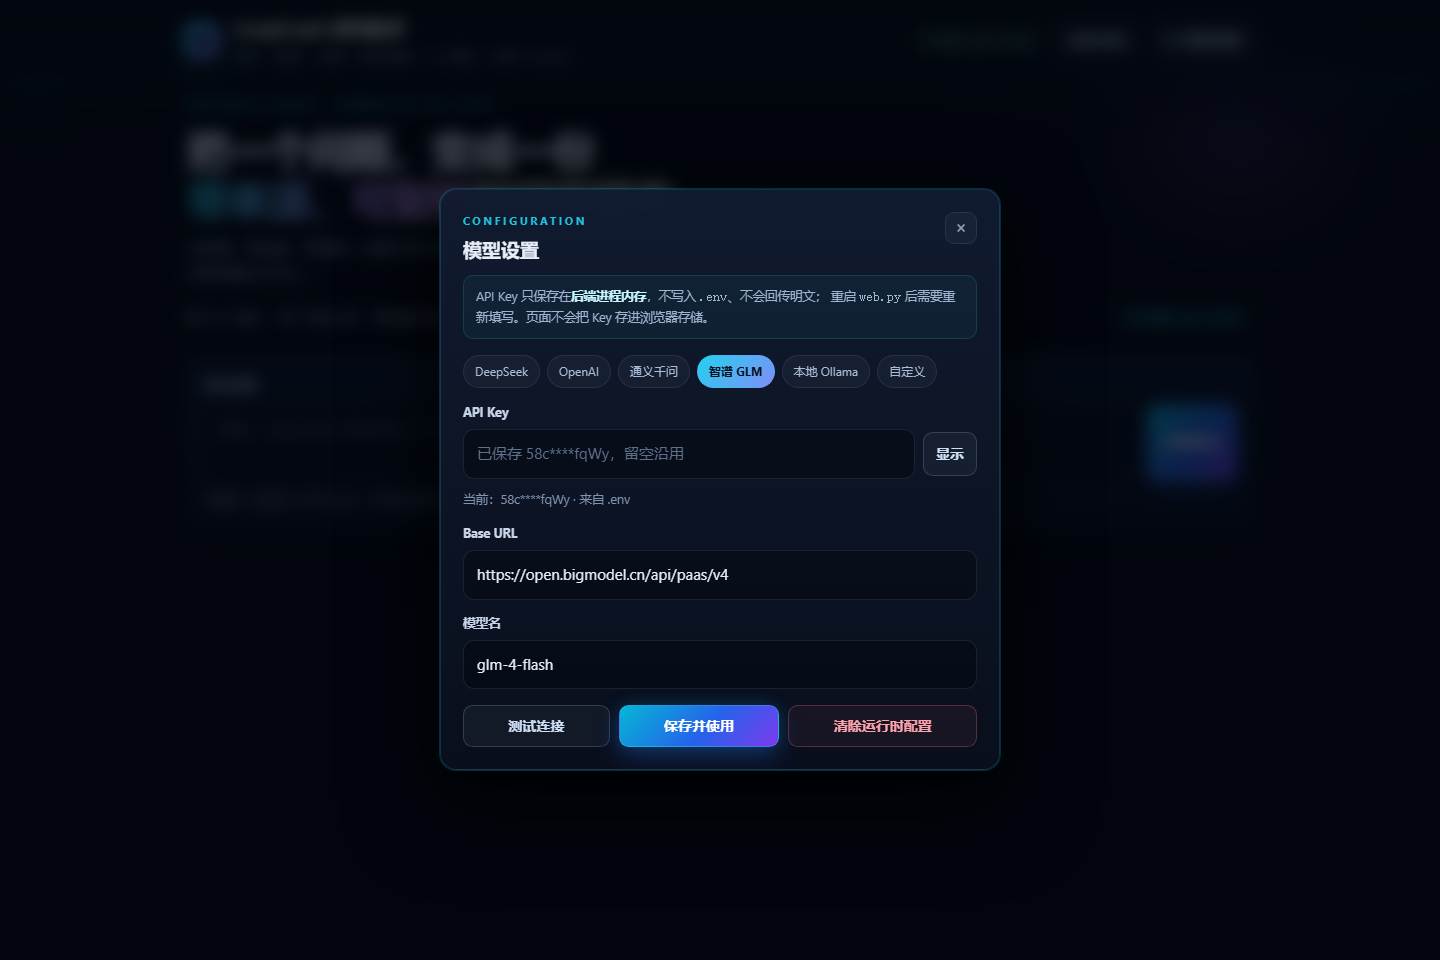
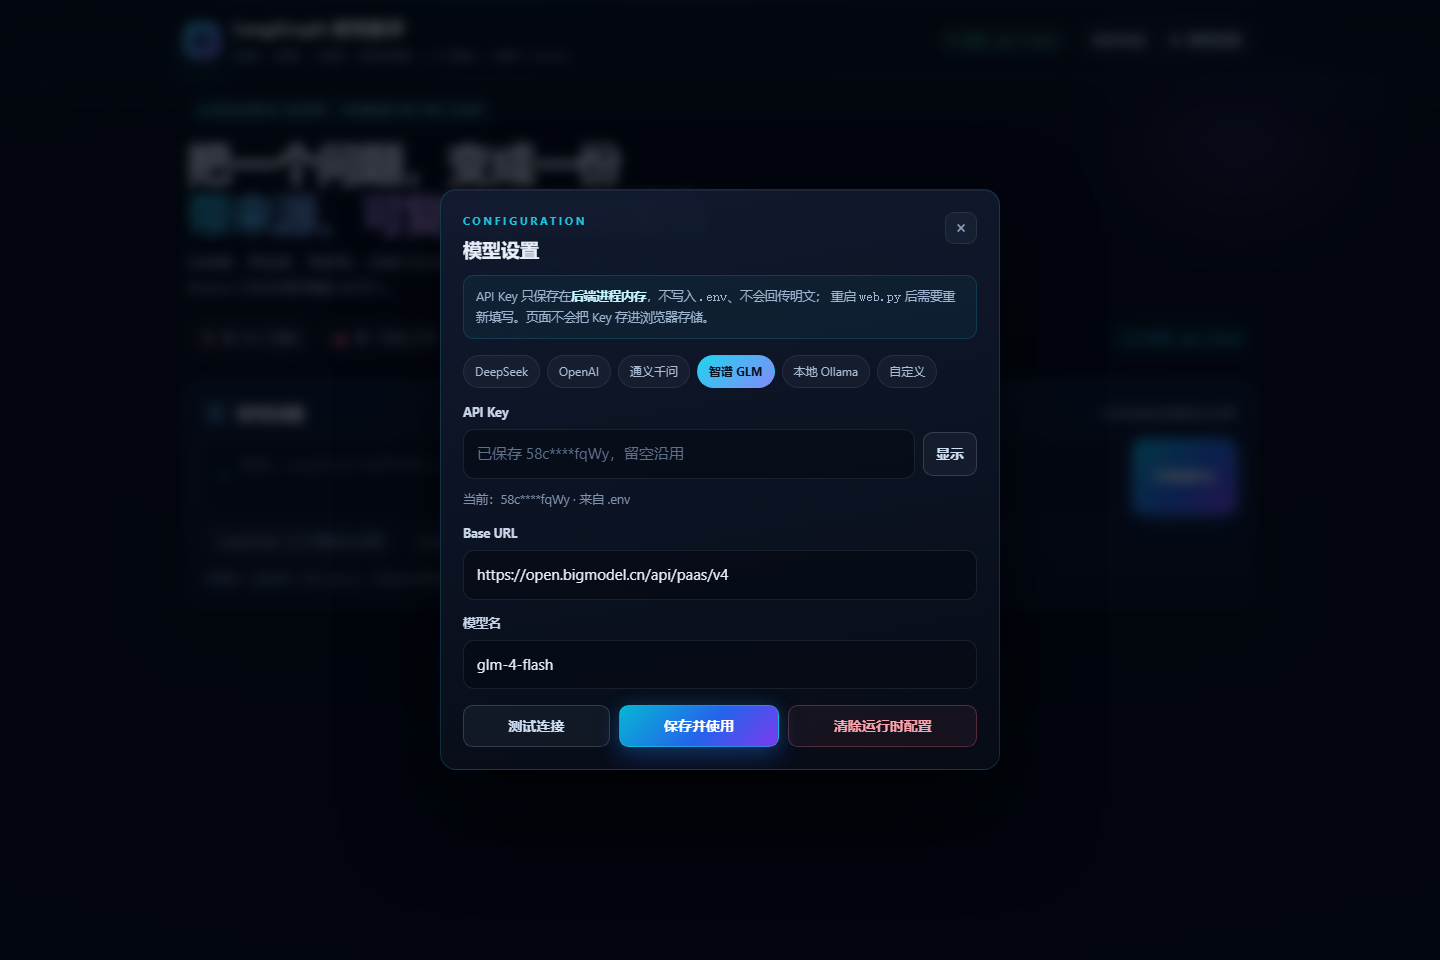
feat(ui): P2 美术升级（玻璃导航 / 玻璃输入台 / 卡片图标碟 / 暗角）
- 顶部：一道发丝光 + 玻璃导航胶囊，历史会话与模型设置收进 pill，hover 用内描边而不是整块变色
- Hero：eyebrow 改成玻璃标签胶囊（带呼吸圆点），标题 42 -> 45~54px 并收紧字距，数据条改成图标胶囊
- 研究问题：卡片头（图标碟 + 标题 + 右侧提示）+ 玻璃输入台（内联 SVG 放大镜、更大的聚焦光晕）+ 三个示例胶囊，点击即填入并聚焦
- 卡片统一：6 张卡加图标碟（历史/进度/未完成/最终/Trace/研究问题），标题 17px，hover 描边，阴影加深
- 进度：百分比改 34u 渐变大字，分段加高到 12px 并带发光；报告正文行高 1.85、标题节奏重排
- 背景：新增径向暗角把视线收到中间，阶梯光条再压一档，右上保留青紫辉光
- 修布局：卡片头原本是 space-between，手机隐藏右侧提示后标题被顶到最右；改成 flex-start + 末尾元素 margin-left:auto
- CDP 实测：示例胶囊点击后填入并聚焦、导航胶囊 backdrop-filter blur(14px)、历史入口正常打开 5 条会话、6 个图标、1440/1024/390 横向溢出均为 0
- 刷新 7 张 README 截图（主界面 / 模型设置 / 执行进度 / 折叠态 / Trace / 中断态 / 历史会话）

diff --git a/index.html b/index.html
@@ -627,7 +627,7 @@
     width: calc(var(--w) * var(--u));
     height: calc(var(--h) * var(--u));
     border-radius: 0 0 calc(24 * var(--u)) calc(24 * var(--u));
-    background: linear-gradient(180deg, rgba(34, 211, 238, .12), rgba(34, 211, 238, .03) 50%, rgba(34, 211, 238, 0) 82%);
+    background: linear-gradient(180deg, rgba(34, 211, 238, .10), rgba(34, 211, 238, .025) 50%, rgba(34, 211, 238, 0) 82%);
     filter: blur(calc(20 * var(--u)));
   }
   .bg .bars .l { left: calc(var(--l) * var(--u)); }
@@ -695,6 +695,24 @@
   .log-collapse-inner { overflow: hidden; min-height: 0; }
   #progress-card.collapsed .log-collapse-inner { opacity: 0; transition: opacity .18s ease; }
 
+  /* 报告正文：限制阅读宽度（约 46em ≈ 45 个汉字），居中成文档列；
+     行高、段距、标题节奏一起调，滚动容器放宽到 68vh 便于长报告阅读 */
+  .draft {
+    max-width: 46em;
+    margin-inline: auto;
+    max-height: min(68vh, 760px);
+    font-size: 15.5px;
+    line-height: 1.82;
+  }
+  .draft h2 { margin: calc(22 * var(--u)) 0 calc(10 * var(--u)); }
+  .draft h3 { margin: calc(20 * var(--u)) 0 calc(8 * var(--u)); }
+  .draft h4, .draft h5 { margin: calc(16 * var(--u)) 0 calc(6 * var(--u)); }
+  .draft p { margin: calc(10 * var(--u)) 0; }
+  .draft li { margin: calc(6 * var(--u)) 0; }
+  .draft ul, .draft ol { margin: calc(10 * var(--u)) 0; }
+  .draft blockquote { margin: calc(14 * var(--u)) 0; }
+  .draft .md-table { font-size: 13px; }
+
   /* 首屏入场：逐级落定（纯 CSS，减少动态效果时自动跳过） */
   @keyframes intro-rise {
     from { opacity: 0; transform: translateY(calc(14 * var(--u))); }
@@ -735,6 +753,210 @@
     .hero h2 { font-size: clamp(24px, 7.2vw, 32px); letter-spacing: -.03em; }
     .bg .bars span[data-n="4"] { display: none; }
   }
+
+  /* ============================================================
+     P2 美术层：玻璃导航 / 玻璃输入台 / 卡片图标碟 / 层次与强调
+     仍沿用青紫主色，只把「层次、玻璃、图标、比例」做出来
+     ============================================================ */
+  :root {
+    --r-card: calc(22 * var(--u));
+    --glass-1: rgba(148, 163, 184, .06);
+    --glass-2: rgba(148, 163, 184, .11);
+    --line-soft: rgba(148, 163, 184, .12);
+    --ink-2: #c7d5e8;
+    --shadow-card: 0 26px 64px rgba(0, 0, 0, .46), inset 0 1px 0 rgba(255, 255, 255, .035);
+  }
+
+  /* ---------- 背景暗角：四角压暗，中间更聚焦 ---------- */
+  .bg::after {
+    content: ""; position: absolute; inset: 0;
+    background: radial-gradient(130% 95% at 50% 26%, transparent 42%, rgba(3, 6, 12, .62) 100%);
+  }
+
+  /* ---------- 顶部：发丝光 + 玻璃导航胶囊 ---------- */
+  header.top::before {
+    content: ""; position: absolute; inset: 0 0 auto; height: 1px;
+    background: linear-gradient(90deg, transparent, rgba(34, 211, 238, .50), rgba(139, 92, 246, .45), transparent);
+  }
+  .nav-pill {
+    display: flex; align-items: center; gap: 2px;
+    padding: 3px; border-radius: 999px;
+    background: var(--glass-1);
+    border: 1px solid var(--line-soft);
+    backdrop-filter: blur(14px);
+    -webkit-backdrop-filter: blur(14px);
+  }
+  .nav-pill .btn.ghost {
+    border: 0; background: transparent; border-radius: 999px;
+    padding: calc(7 * var(--u)) calc(14 * var(--u));
+    color: var(--ink-2); font-size: 13px; box-shadow: none;
+  }
+  .nav-pill .btn.ghost:hover:not(:disabled) {
+    color: #ecfeff; background: var(--glass-2); transform: none;
+    box-shadow: inset 0 0 0 1px rgba(34, 211, 238, .18);
+  }
+  .brand .logo {
+    box-shadow: 0 10px 28px rgba(34, 211, 238, .24), inset 0 0 0 1px rgba(255, 255, 255, .18);
+  }
+
+  /* ---------- Hero：标签胶囊、更大标题、数据胶囊 ---------- */
+  .hero .eyebrow {
+    display: inline-flex; align-items: center; gap: calc(8 * var(--u));
+    padding: calc(6 * var(--u)) calc(14 * var(--u));
+    border-radius: 999px;
+    background: rgba(34, 211, 238, .07);
+    border: 1px solid rgba(34, 211, 238, .22);
+    color: #86e9f8; font-size: 10.5px; letter-spacing: .18em;
+  }
+  .hero .eyebrow::before {
+    content: ""; width: 6px; height: 6px; border-radius: 50%;
+    background: var(--accent);
+    box-shadow: 0 0 10px rgba(34, 211, 238, .9);
+  }
+  .hero h2 {
+    font-size: clamp(34px, calc(56 * var(--u)), 54px);
+    line-height: 1.13;
+    letter-spacing: -.045em;
+    margin-bottom: calc(14 * var(--u));
+  }
+  .hero-copy { font-size: 15px; color: #9fb2cc; max-width: 66ch; }
+  .hero-stats { gap: calc(9 * var(--u)); margin-top: calc(18 * var(--u)); }
+  .hero-stats > span:not(.hero-status) {
+    display: inline-flex; align-items: center; gap: 7px;
+    padding: calc(7 * var(--u)) calc(13 * var(--u));
+    border-radius: 999px;
+    background: var(--glass-1);
+    border: 1px solid var(--line-soft);
+    font-size: 12.5px; color: #9fb2cc;
+  }
+  .hero-stats > span:not(.hero-status) i { font-style: normal; font-size: 13px; }
+  .hero-stats > span:not(.hero-status) strong { font-size: 15px; color: #eaf2ff; }
+  .hero-status {
+    padding: calc(7 * var(--u)) calc(13 * var(--u));
+    border-radius: 999px; font-size: 12px;
+    border-color: rgba(34, 211, 238, .26);
+    background: rgba(34, 211, 238, .07);
+  }
+
+  /* ---------- 玻璃输入台 ---------- */
+  .ask-card { padding-bottom: calc(20 * var(--u)); }
+  .ask-field { position: relative; flex: 1 1 auto; min-width: 0; display: flex; }
+  .ask-field .ask-icon {
+    position: absolute; left: calc(15 * var(--u)); top: 50%; transform: translateY(-50%);
+    font-size: calc(18 * var(--u)); line-height: 1;
+    color: rgba(34, 211, 238, .7); pointer-events: none;
+  }
+  .ask-field textarea {
+    width: 100%;
+    min-height: calc(86 * var(--u));
+    padding: calc(15 * var(--u)) calc(16 * var(--u)) calc(15 * var(--u)) calc(44 * var(--u));
+    border-radius: calc(18 * var(--u));
+    background: rgba(3, 8, 16, .55);
+    border: 1px solid var(--line-soft);
+    font-size: 15px; line-height: 1.6;
+  }
+  .ask-field textarea:focus {
+    background: rgba(3, 8, 16, .74);
+    border-color: rgba(34, 211, 238, .55);
+    box-shadow: 0 0 0 4px rgba(34, 211, 238, .10), inset 0 0 34px rgba(34, 211, 238, .07);
+  }
+  .ask-card .start-btn {
+    align-self: stretch; padding-inline: calc(24 * var(--u));
+    font-size: 15px; letter-spacing: .02em;
+  }
+  .examples { display: flex; flex-wrap: wrap; gap: 8px; margin-top: calc(13 * var(--u)); }
+  .example {
+    font: inherit; font-size: 12.5px; cursor: pointer;
+    padding: 6px 13px; border-radius: 999px;
+    color: #9fb2cc; background: rgba(148, 163, 184, .05);
+    border: 1px solid var(--line-soft);
+    transition: color .16s ease, border-color .16s ease, background .16s ease, transform .16s ease;
+  }
+  .example:hover {
+    color: #ecfeff; border-color: rgba(34, 211, 238, .42);
+    background: rgba(34, 211, 238, .09); transform: translateY(-1px);
+  }
+  .example:focus-visible { outline: 2px solid rgba(34, 211, 238, .6); outline-offset: 2px; }
+  .ask-hint { margin-left: auto; font-size: 12px; white-space: nowrap; }
+  .card-head > .card-title:last-child { margin-left: 0; }
+  .ask-field .ask-icon svg { width: calc(18 * var(--u)); height: calc(18 * var(--u)); display: block; }
+
+  /* ---------- 卡片：图标碟 + 标题层级 + 悬停描边 ---------- */
+  .card {
+    border-radius: var(--r-card);
+    box-shadow: var(--shadow-card);
+    transition: border-color .2s ease, box-shadow .2s ease;
+  }
+  .card:hover { border-color: rgba(34, 211, 238, .20); }
+  .card-head {
+    display: flex; align-items: center; justify-content: flex-start;
+    gap: calc(10 * var(--u));
+  }
+  .card-head > :last-child { margin-left: auto; }
+  .card-ico {
+    flex: none; display: grid; place-items: center;
+    width: calc(30 * var(--u)); height: calc(30 * var(--u));
+    border-radius: calc(10 * var(--u));
+    font-size: calc(14 * var(--u)); line-height: 1;
+    background: linear-gradient(150deg, rgba(34, 211, 238, .20), rgba(139, 92, 246, .18));
+    border: 1px solid rgba(34, 211, 238, .22);
+    box-shadow: inset 0 1px 0 rgba(255, 255, 255, .08);
+  }
+  .card-ico.warn {
+    background: linear-gradient(150deg, rgba(251, 113, 133, .20), rgba(251, 146, 60, .16));
+    border-color: rgba(251, 113, 133, .28);
+  }
+  .card-ico.ok {
+    background: linear-gradient(150deg, rgba(52, 211, 153, .20), rgba(34, 211, 238, .16));
+    border-color: rgba(52, 211, 153, .28);
+  }
+  .card-title {
+    font-size: 17px; font-weight: 700; letter-spacing: -.01em;
+    color: var(--ink); cursor: pointer;
+  }
+  .card-head h2 { font-size: 17px; font-weight: 700; letter-spacing: -.01em; }
+
+  /* ---------- 进度：大号渐变百分比 + 更厚的分段 ---------- */
+  .stage-percent {
+    font-size: calc(34 * var(--u)); font-weight: 800; letter-spacing: -.035em;
+    background: linear-gradient(180deg, #eaf9ff, #67e8f9 70%);
+    -webkit-background-clip: text; background-clip: text; color: transparent;
+  }
+  #progress-card.interrupted .stage-percent {
+    background: none; color: #fb7185; -webkit-text-fill-color: currentColor;
+  }
+  .seg-cell { height: 12px; }
+  .seg-bar { gap: calc(6 * var(--u)); }
+  .seg-cell.done { box-shadow: 0 0 14px rgba(34, 211, 238, .30); }
+  .stage-emoji { font-size: calc(30 * var(--u)); }
+
+  /* ---------- 报告正文：更松的行距与标题层级 ---------- */
+  .draft { line-height: 1.85; }
+  .draft h2 { font-size: 21px; margin: calc(20 * var(--u)) 0 calc(10 * var(--u)); }
+  .draft h2:first-child { margin-top: 0; }
+  .draft h3 { margin-top: calc(16 * var(--u)); }
+  .draft ul, .draft ol { padding-left: 1.4em; }
+  .draft li { margin: 6px 0; }
+  .meta div { border-radius: calc(13 * var(--u)); }
+
+  /* ---------- 弹层 ---------- */
+  .modal {
+    background: linear-gradient(170deg, rgba(17, 27, 48, .96), rgba(7, 12, 23, .97));
+    box-shadow: 0 40px 90px rgba(0, 0, 0, .6), inset 0 1px 0 rgba(255, 255, 255, .05);
+  }
+  .modal-backdrop { backdrop-filter: blur(6px); -webkit-backdrop-filter: blur(6px); }
+
+  /* ---------- 手机 ---------- */
+  @media (max-width: 767px) {
+    .hero h2 { font-size: clamp(24px, 7.4vw, 32px); }
+    .hero .eyebrow { font-size: 9.5px; letter-spacing: .14em; }
+    .ask-hint { display: none; }
+    .ask-field textarea { min-height: 74px; }
+    .ask-card .start-btn { width: 100%; }
+    .card-head { flex-wrap: wrap; }
+    .card-ico { width: 28px; height: 28px; font-size: 13px; }
+    .stage-percent { font-size: 28px; }
+  }
 </style>
 </head>
 <body>
@@ -770,10 +992,12 @@
     <div class="top-actions">
       <span class="pill mode-pill" id="mode-pill">模式检测中</span>
       <span class="pill" id="thread-pill" hidden></span>
-      <button class="btn ghost settings-btn" id="history-btn" type="button">历史会话</button>
-      <button class="btn ghost settings-btn" id="settings-btn" type="button">
-        <span class="gear" aria-hidden="true">⚙</span> 模型设置
-      </button>
+      <nav class="nav-pill" aria-label="页面导航">
+        <button class="btn ghost settings-btn" id="history-btn" type="button">历史会话</button>
+        <button class="btn ghost settings-btn" id="settings-btn" type="button">
+          <span class="gear" aria-hidden="true">⚙</span> 模型设置
+        </button>
+      </nav>
     </div>
   </div>
 </header>
@@ -784,9 +1008,9 @@
     <h2>把一个问题，变成一份<br><span>带来源、可复核</span>的研究报告</h2>
     <p class="hero-copy">先拆解、再检索、再抓取；证据不足会补检，结论必须能回到原文。邮件与 Notion 只在你逐项确认后写入。</p>
     <div class="hero-stats">
-      <span><strong>3</strong> 次人工确认</span>
-      <span><strong>5</strong> 个固定工具</span>
-      <span><strong>0</strong> 编造来源</span>
+      <span><i aria-hidden="true">🧑⚖</i><strong>3</strong> 次人工确认</span>
+      <span><i aria-hidden="true">🧰</i><strong>5</strong> 个固定工具</span>
+      <span><i aria-hidden="true">🛡</i><strong>0</strong> 编造来源</span>
       <span class="hero-status" id="hero-status">等待配置</span>
     </div>
   </section>
@@ -796,17 +1020,30 @@
     运行 <code>python web.py</code> 后访问 <code>http://127.0.0.1:8000</code> 可跑真实研究流程，并在右上角「模型设置」里填写 API Key。
   </div>
 
-  <section class="card">
-    <label class="label" for="question">研究问题</label>
+  <section class="card ask-card">
+    <div class="card-head">
+      <span class="card-ico" aria-hidden="true">🔍</span>
+      <label class="card-title" for="question">研究问题</label>
+      <span class="muted ask-hint">一句话说清你想搞明白的事</span>
+    </div>
     <div class="ask-row">
-      <textarea id="question" rows="2" placeholder="例如：LangGraph 如何实现人工中断（human-in-the-loop）？"></textarea>
-      <button id="start-btn" class="btn primary">开始研究</button>
+      <div class="ask-field">
+        <span class="ask-icon" aria-hidden="true"><svg viewBox="0 0 24 24" fill="none" stroke="currentColor" stroke-width="2" stroke-linecap="round"><circle cx="11" cy="11" r="7"></circle><path d="m20 20-3.6-3.6"></path></svg></span>
+        <textarea id="question" rows="2" placeholder="例如：LangGraph 如何实现人工中断（human-in-the-loop）？"></textarea>
+      </div>
+      <button id="start-btn" class="btn primary start-btn">开始研究</button>
+    </div>
+    <div class="examples" id="examples">
+      <button type="button" class="example" data-q="LangGraph 如何实现人工中断（human-in-the-loop）？">LangGraph 人工中断怎么实现</button>
+      <button type="button" class="example" data-q="对比 LangGraph 与 AutoGen 在 human-in-the-loop 上的设计差异">LangGraph vs AutoGen 人工介入</button>
+      <button type="button" class="example" data-q="2025 年 AI Agent 在企业落地的主要挑战是什么？">2025 AI Agent 落地挑战</button>
     </div>
     <p class="hint">写操作（发邮件 / 存 Notion）只有在你逐项确认后才会执行；未配置凭据时写入 outbox/（dry-run）。</p>
   </section>
 
   <section class="card" id="history-card" hidden>
     <div class="card-head">
+      <span class="card-ico" aria-hidden="true">🗂</span>
       <h2>历史会话</h2>
       <div>
         <button class="btn ghost" id="history-refresh" type="button">刷新</button>
@@ -821,6 +1058,7 @@
 
   <section class="card" id="progress-card" hidden>
     <div class="card-head progress-head">
+      <span class="card-ico" aria-hidden="true">🧭</span>
       <h2>执行进度</h2>
       <span class="muted" id="progress-text">处理中…</span>
       <button type="button" class="collapse-btn" id="progress-toggle" aria-expanded="true" aria-controls="progress-log">
@@ -906,6 +1144,7 @@
 
   <section class="card" id="unfinished-card" hidden>
     <div class="card-head">
+      <span class="card-ico warn" aria-hidden="true">⏸</span>
       <h2>会话未完成</h2>
       <span class="pill danger" id="unfinished-status">已中断</span>
     </div>
@@ -921,6 +1160,7 @@
 
   <section class="card" id="final-card" hidden>
     <div class="card-head">
+      <span class="card-ico ok" aria-hidden="true">✅</span>
       <h2>最终结果</h2>
       <span class="pill" id="final-status"></span>
     </div>
@@ -949,6 +1189,7 @@
 
   <section class="card" id="trace-card" hidden>
     <div class="card-head">
+      <span class="card-ico" aria-hidden="true">📈</span>
       <h2>调用链 Trace</h2>
       <span class="muted" id="trace-meta"></span>
     </div>
@@ -2430,6 +2671,18 @@
   buildSegments();
   resetProgress();
   $("progress-toggle").addEventListener("click", () => setProgressCollapsed(!progressCollapsed));
+
+  // 示例问题：点一下填进输入框并聚焦，省去手打
+  document.querySelectorAll(".example").forEach((chip) => {
+    chip.addEventListener("click", () => {
+      const q = chip.getAttribute("data-q") || chip.textContent.trim();
+      const box = $("question");
+      box.value = q;
+      box.focus();
+      box.setSelectionRange(q.length, q.length);
+      box.dispatchEvent(new Event("input", { bubbles: true }));
+    });
+  });
 
   // 页面加载时显示 LLM 模式；file:// 或后端不可用时自动进入静态演示模式
   // 可选参数：?q=研究问题 预填问题；?autostart=1 自动开始；?collapse=1 执行进度默认收起（深链/截图用）
